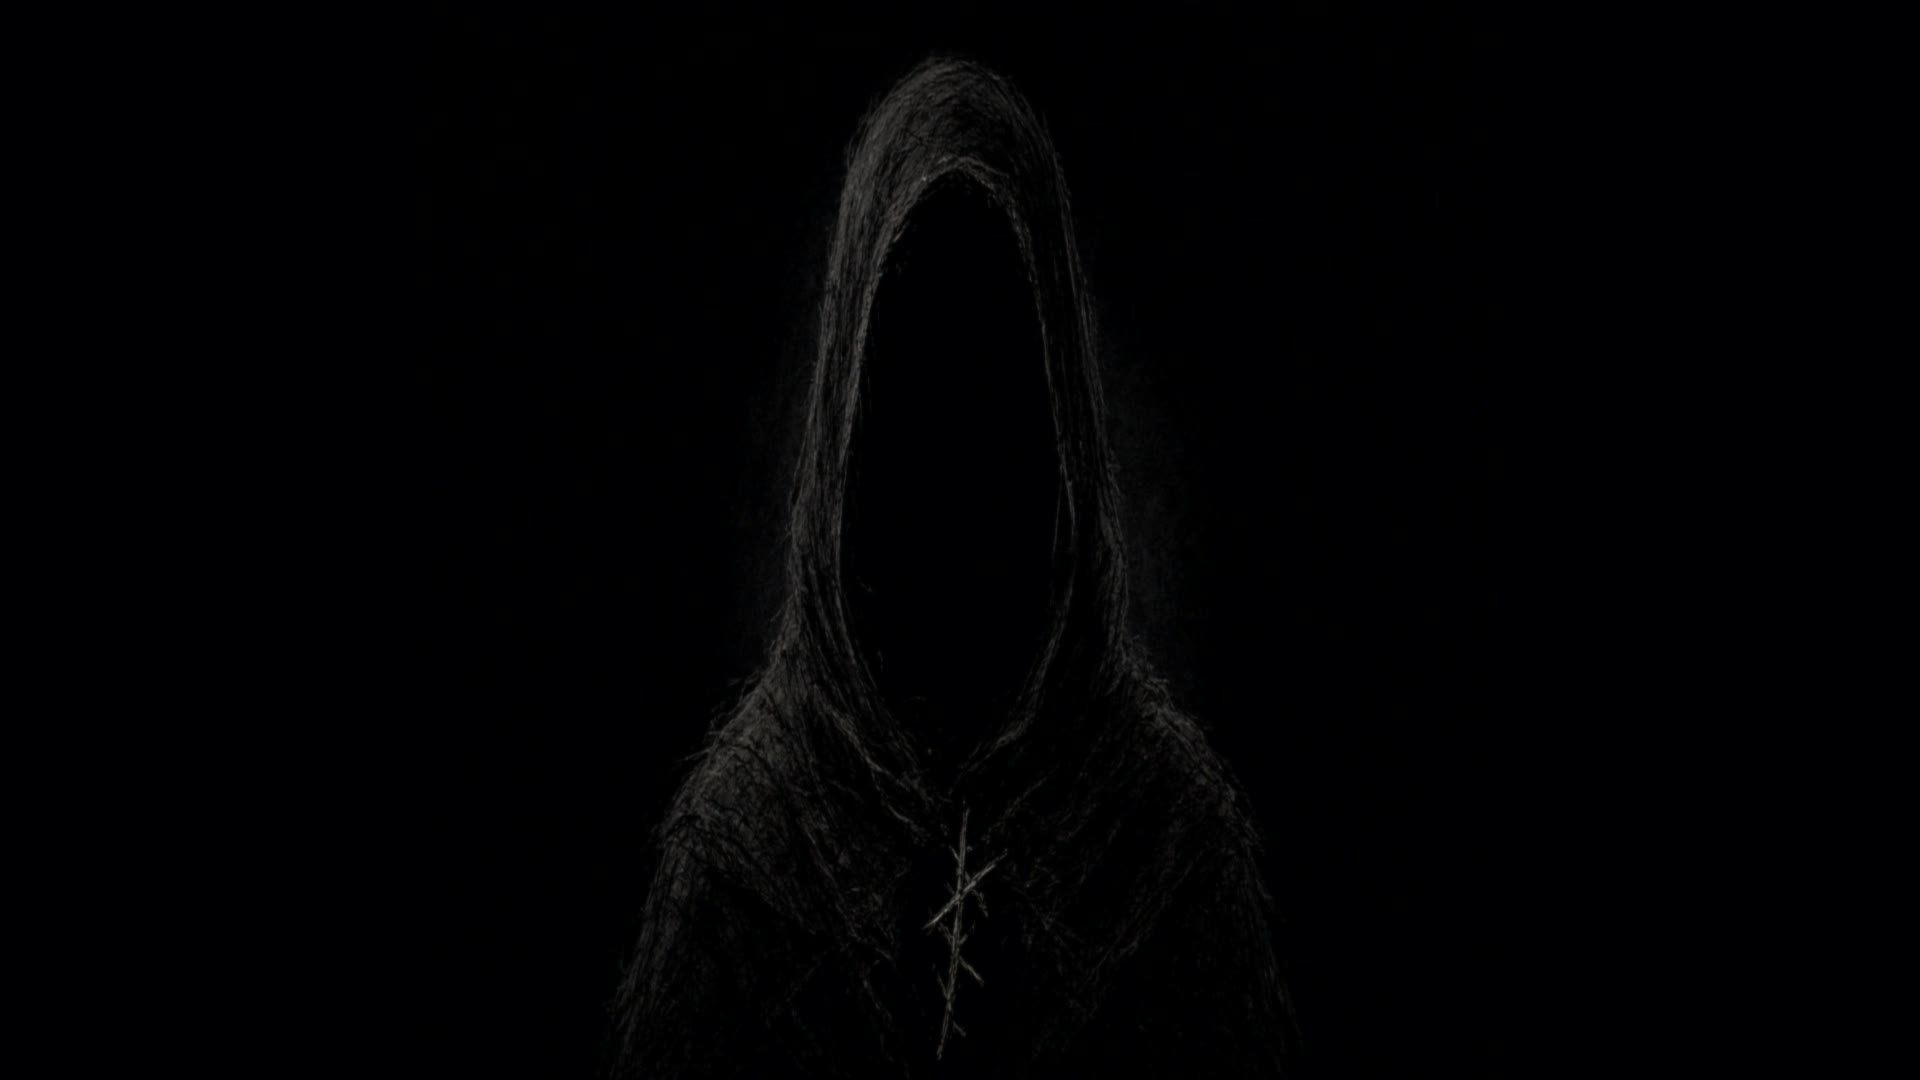
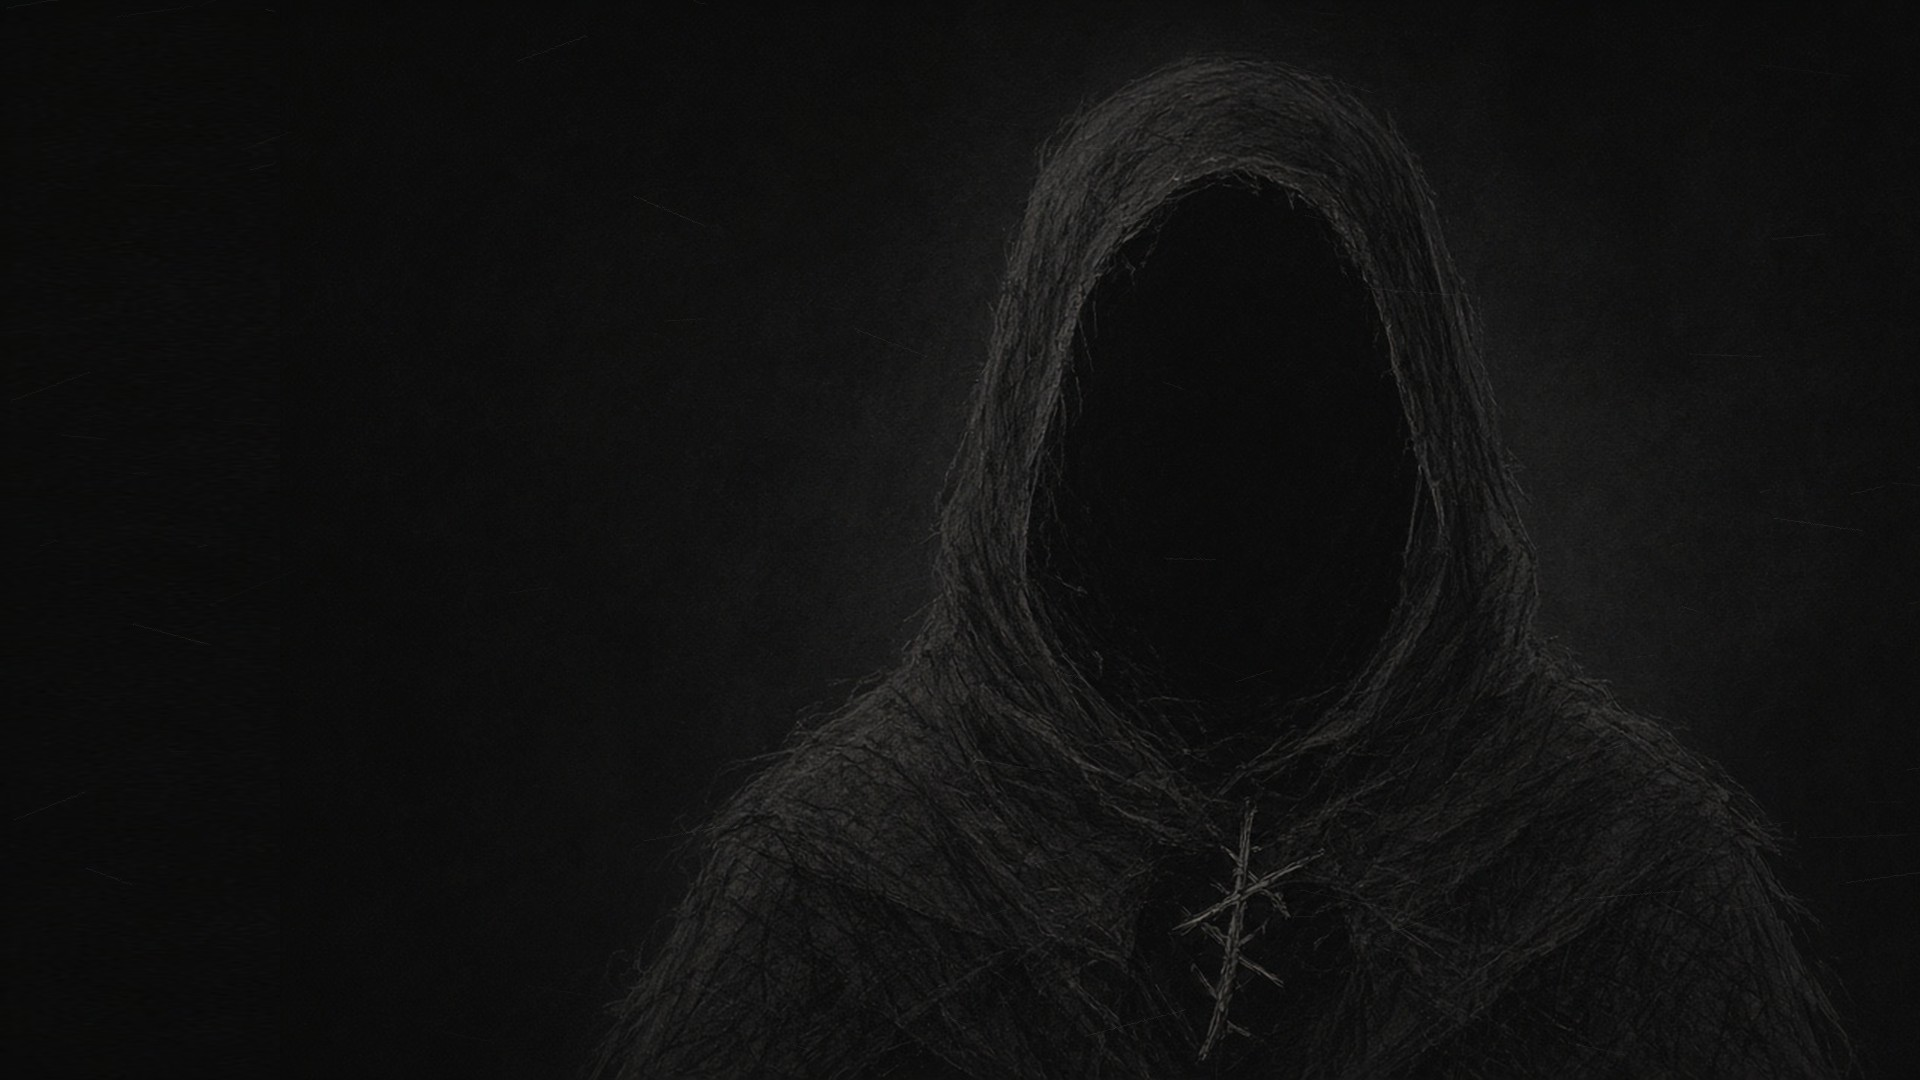
Ship Relic Pencil brand assets for whitelist site
Replace CG hero/emblem/bg with BASE_WARDEN charcoal art and drop gold frame glow on the hero so the petition page matches the locked Relic Pencil look.

diff --git a/components/quest-app.tsx b/components/quest-app.tsx
@@ -628,7 +628,7 @@ export function QuestApp() {
               width={800}
               height={800}
               priority
-              className="relative w-full border border-[#C9A227]/20 shadow-[0_0_40px_rgba(201,162,39,0.08)]"
+              className="relative w-full"
             />
             <div className="pointer-events-none absolute -bottom-3 -right-3 sm:bottom-4 sm:right-4">
               <RelicMark size={88} className="h-16 w-16 sm:h-20 sm:w-20 drop-shadow-[0_0_18px_rgba(7,7,10,0.9)]" />
